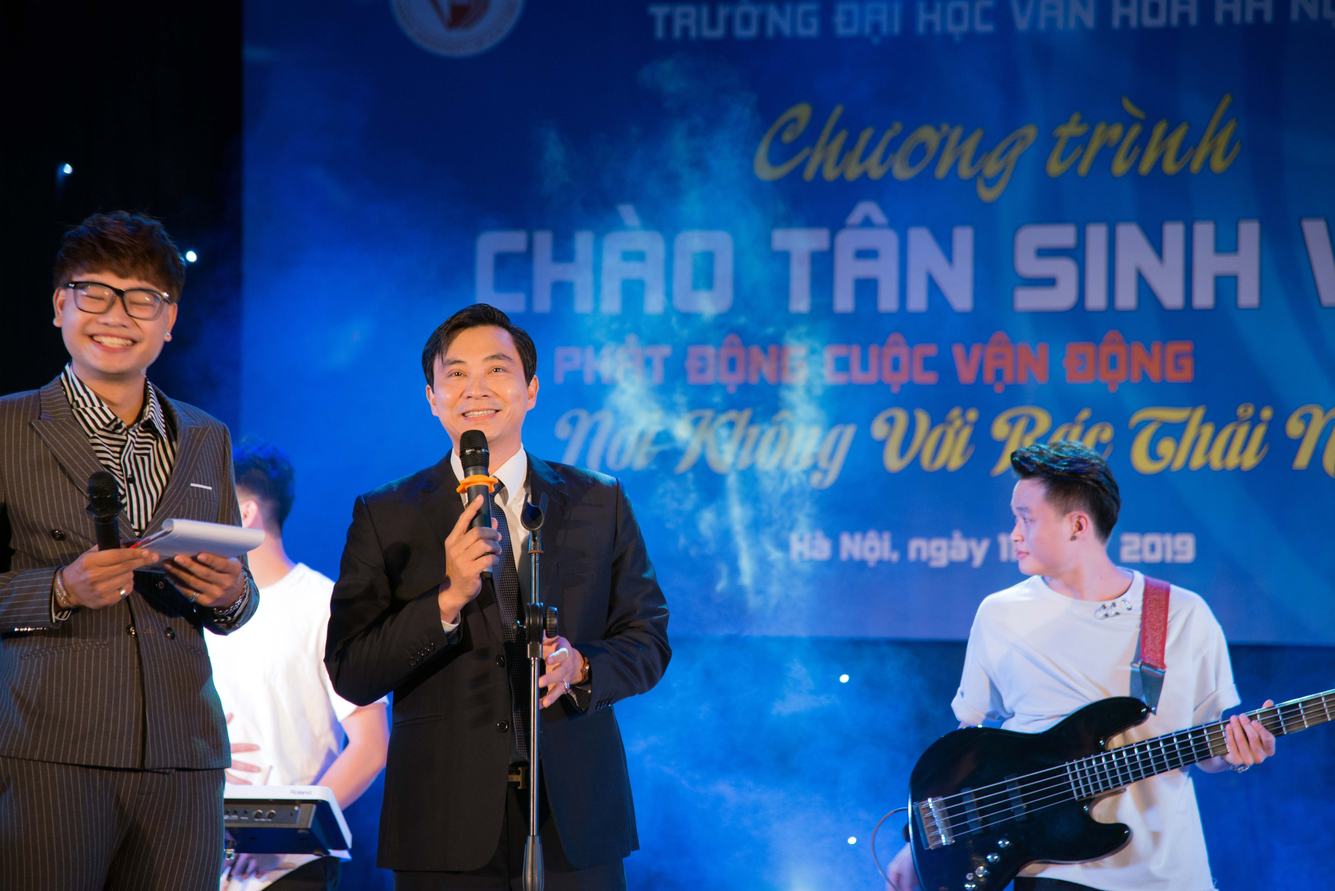
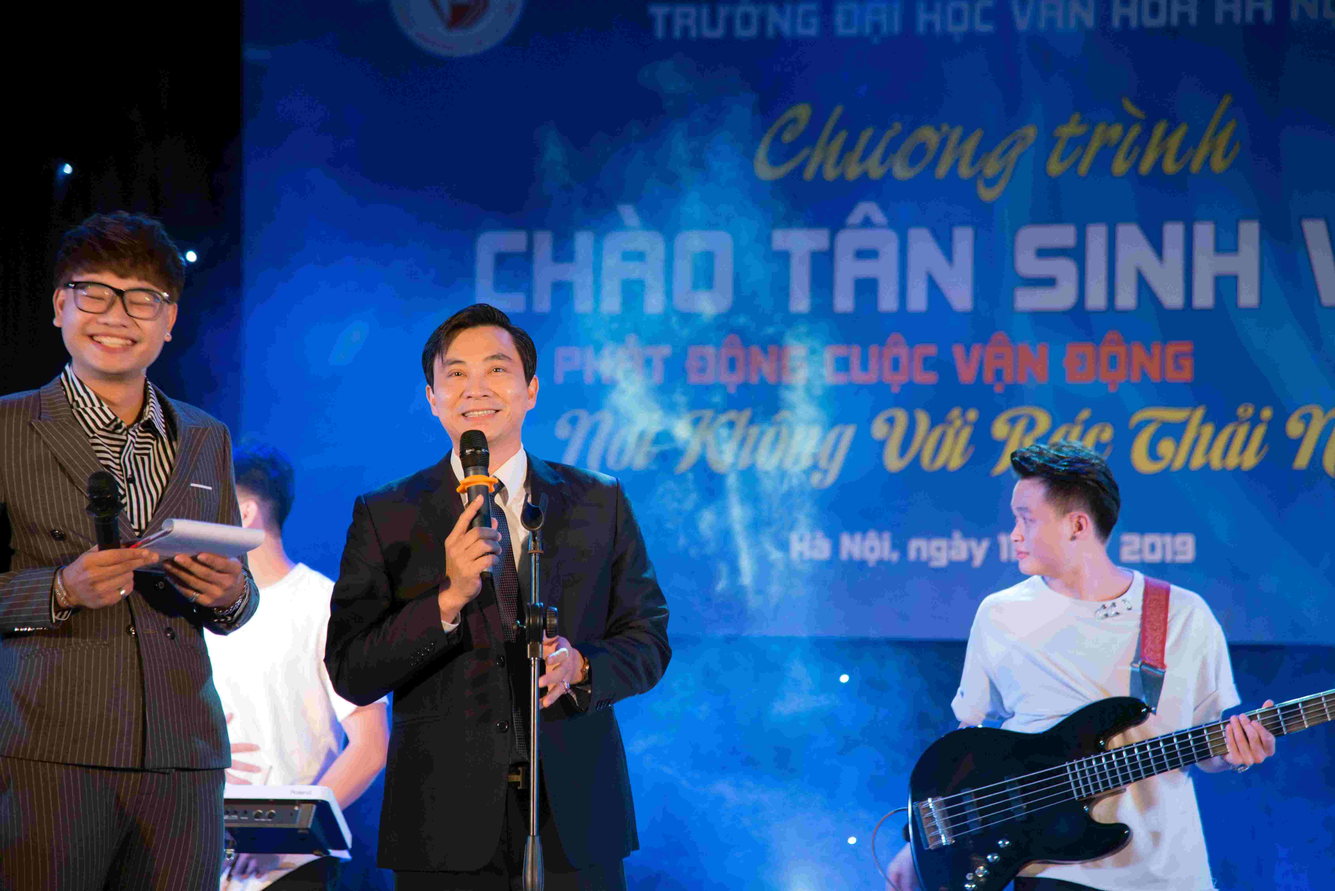
optimize img size, fix UI

Changed region(s): [[0.8107, 0.8408, 0.8731, 0.8719], [0.8731, 0.8096, 0.9043, 0.8408]]

diff --git a/index.html b/index.html
@@ -14,14 +14,18 @@
 </head>
 
 <body>
-  <header id="header"
+  <header id="header">
     <div class="banner">
       <img src="Image/banner.jpg" alt="HUC Banner" id="banner-img">
     </div>
     <nav id="header-nav">
       <div id="nav-content-collasp">
         <button type="button" id="collaspe-btn">☰</button>
-        <a href=""><img src="Image/dhvh-logo.jpeg" alt="logo" id="logo"></a>
+        <div>
+          <a href=""><img src="Image/eng_flag.gif" alt="eng" id="lang-eng"></a>
+          <a href=""><img src="Image/dhvh-logo.jpeg" alt="logo" id="logo"></a>
+        </div>
+        
       </div>
       <ul class="header-nav-list">
         <li>
@@ -89,9 +93,33 @@
                 </div>
               </div>
               <div class="modal-footer">
-                <button type="button" class="btn btn-signup">Đăng Ký</button>
+                <button type="button" class="btn btn-signup" data-toggle="modal" data-target="#signin" data-dismiss="modal">Đăng Ký</button>
                 <button type="button" class="btn btn-login">Đăng Nhập</button>
-                <button type="button" class="btn btn-close" data-dismiss="modal">Đóng</button>
+              </div>
+            </div>
+          </div>
+        </div>
+        <div class="modal fade" id="signin" tabindex="-1" role="dialog" aria-labelledby="modelTitleId" aria-hidden="true">
+          <div class="modal-dialog" role="document">
+            <div class="modal-content">
+                <div class="modal-header">
+                    <h5 class="modal-title">Đăng Ký</h5>
+                      <button type="button" class="close" data-dismiss="modal" aria-label="Close">
+                        <span aria-hidden="true">&times;</span>
+                      </button>
+                  </div>
+              <div class="modal-body">
+                <div class="container-fluid">
+                  <input type="email" name="email" id="email" placeholder="Nhập địa chỉ email" required>
+                  <input type="email" name="re-email" id="re-email" placeholder="Nhập lại địa chỉ email" required>
+                  <input type="password" name="password" id="password" placeholder="Nhập mật khẩu" required>
+                  <h5>Thông tin cá nhân</h5>
+                  <input type="text" name="fullname" id="fullname" placeholder="Họ và Tên" required>
+                  <input type="tel" name="phone" id="phone" placeholder="Điện thoại" required>
+                </div>
+              </div>
+              <div class="modal-footer">
+                <button type="button" class="btn btn-signup">Đăng Ký</button>
               </div>
             </div>
           </div>
@@ -445,7 +473,7 @@
   </main>
 
   <footer id="footer">
-    <p id="uni-name">© 2020 - Trường Đại học Văn Hoá Hà Nội - Hanoi University Of Culture</p>
+    <p id="uni-name">© 2020 - Trường Đại Học Văn Hoá Hà Nội - Hanoi University Of Culture</p>
     <div id="footer-content">
       <div id="info">
         <div id="contact">

diff --git a/style.css b/style.css
@@ -36,10 +36,15 @@ a:hover,
 
 /* header======================== */
 
-/* #lang {
+#lang-eng {
   width: 25px;
   height: 16px;
-} */
+}
+
+.modal-header {
+  background-color: #b84a34;
+  color: #ffffff;
+}
 
 .modal-body input {
   width: 80%;
@@ -87,6 +92,7 @@ a:hover,
 
 #header-nav {
   background-color: #b84a34;
+  z-index: 100;
 }
 
 #collaspe-btn {
@@ -403,7 +409,6 @@ input::placeholder {
   color: #fff;
   flex-grow: 1;
   text-align: center;
-  transform: skew(-10deg);
   border-color: transparent;
   margin: auto 1px;
 }
@@ -492,8 +497,8 @@ input::placeholder {
   background-color: #797979;
   padding: 10px;
   margin-bottom: 10px;
-  text-align: left  ;
-  font-size: 2em;
+  text-align: left;
+  font-size: 1.5em;
 }
 
 #contact {
@@ -579,6 +584,10 @@ p {
     width: 2.5em;
     padding: 5px;
     border-radius: 50%;
+  }
+
+  #lang-eng {
+    border-radius: 0%;
   }
 
   #vertical-ads {
